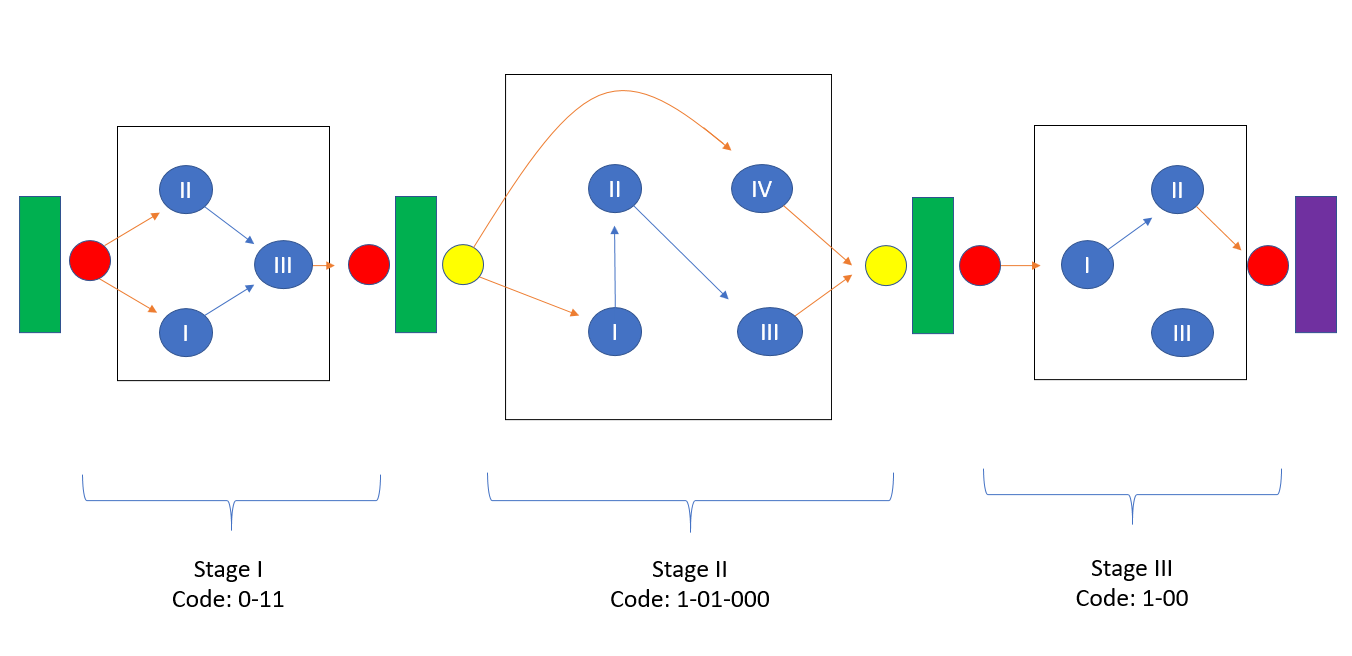
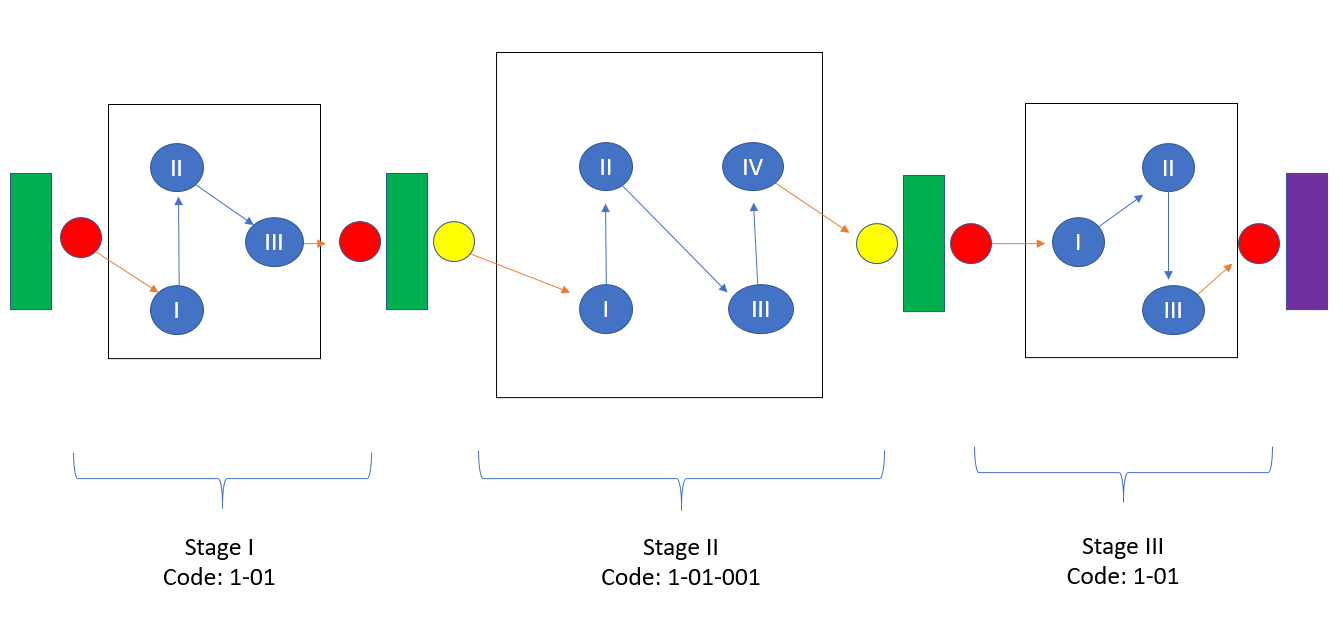
Genetic VoiceNet

diff --git a/README.md b/README.md
@@ -1,11 +1,25 @@
 # Genetic VoiceNet
+# Genetic VoiceNet [![CircleCI](https://circleci.com/gh/faustomorales/keras-ocr.svg?style=shield)](https://github.com/nguyentruonglau) [![Documentation Status](https://readthedocs.org/projects/keras-ocr/badge/?version=latest)](https://github.com/nguyentruonglau)
+
 Code accompanying the paper. All codes assume running from root directory. Please update the sys path at the beginning of the codes before running.
 > [Evolutionary Neural Architecture Search For Vietnamese Speaker Recognition]
 >
 > Nguyễn Trường Lâu - Student at University of Information Technology (UIT)
 >
 
-![overview](https://github.com/nguyen-truong-lau/genetic-voicenet/blob/main/img/model2model.png "Overview of Genetic VoiceNet")
+![overview](https://github.com/nguyen-truong-lau/genetic-voicenet/blob/main/img/model2model.png "Model Architecture")
+
+## Over View
+``` 
+This is the architecture of the model I looked for based on the evolutionary algorithm on the Famous Voice Dataset.
+
+Model has three stage, each stage is separated by Pooling2D, Nodes are convolution block like: identity block in ResNet, Bottleneck block in MobileNet version 3 (dethwise block, point wise, se block),....
+
+If there is a link from one Node to another, the link will be set to 1, in contrast to 0.
+
+After the search process, the resulting architecture is: 1-01 -- 1-01-001 -- 1-01 (model is depicted by figure above)
+
+```
 
 ## Requirements
 ``` 
@@ -22,10 +36,10 @@ model/voicenet.hdf5
 ## Dataset
 ``` 
     data--
-        --John
+        --Speaker One
           voice_1.wav
           voice_2.wav
-        --Stone
+        --Speaker Two
           voice_1.wav
           voice_2.wav
 ```
